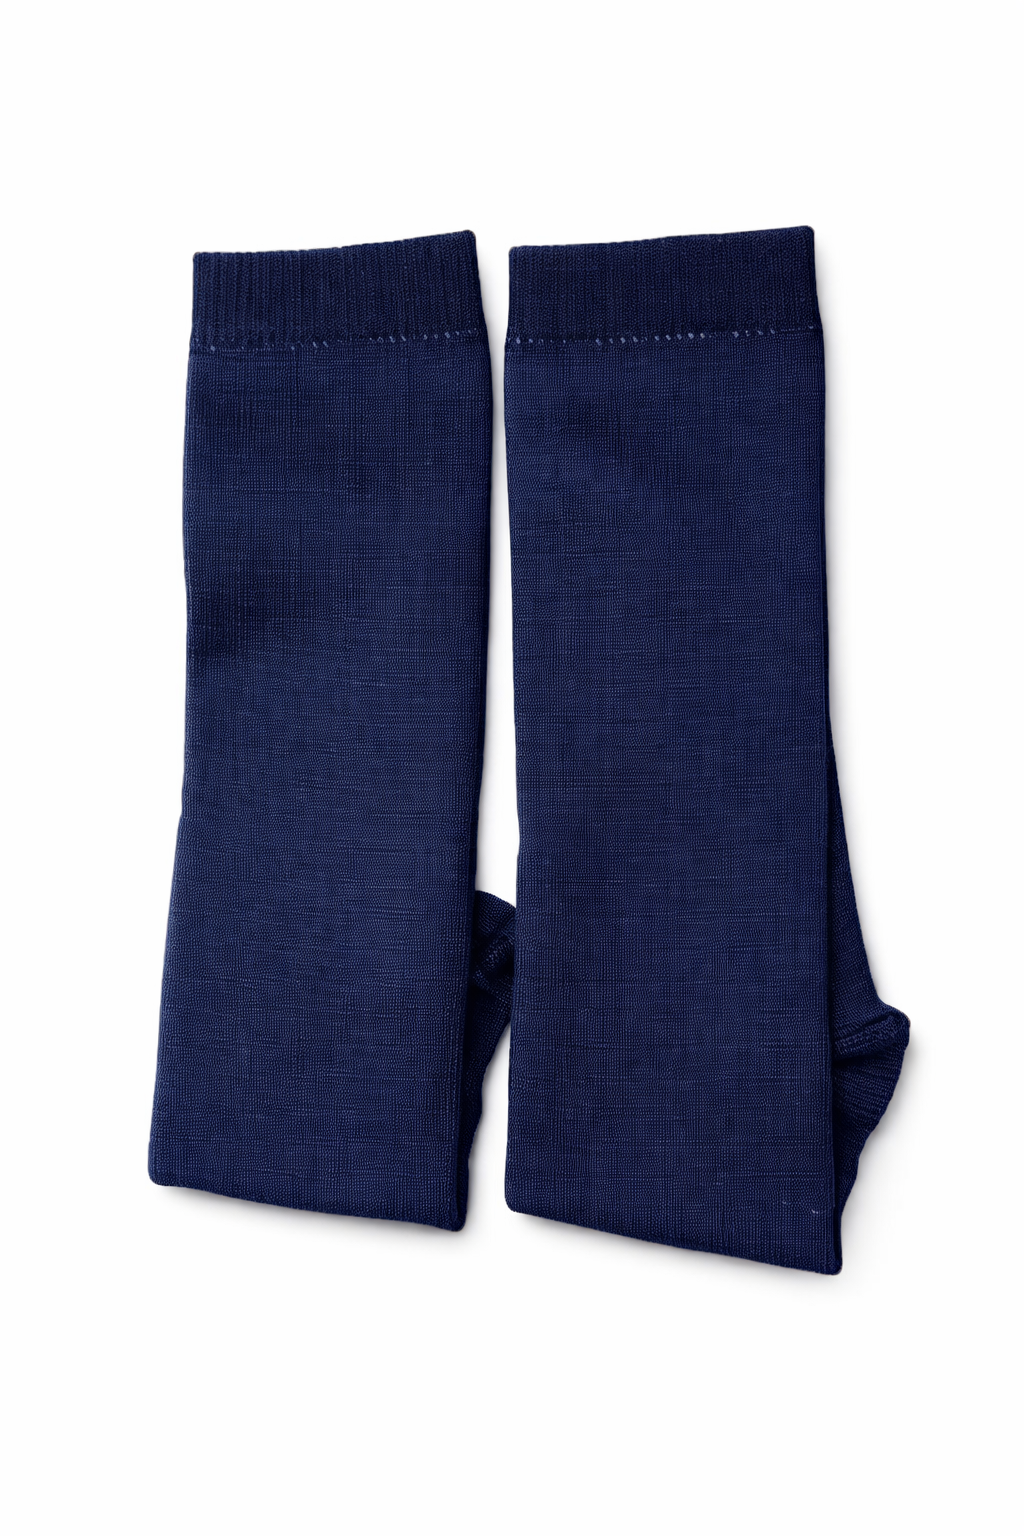
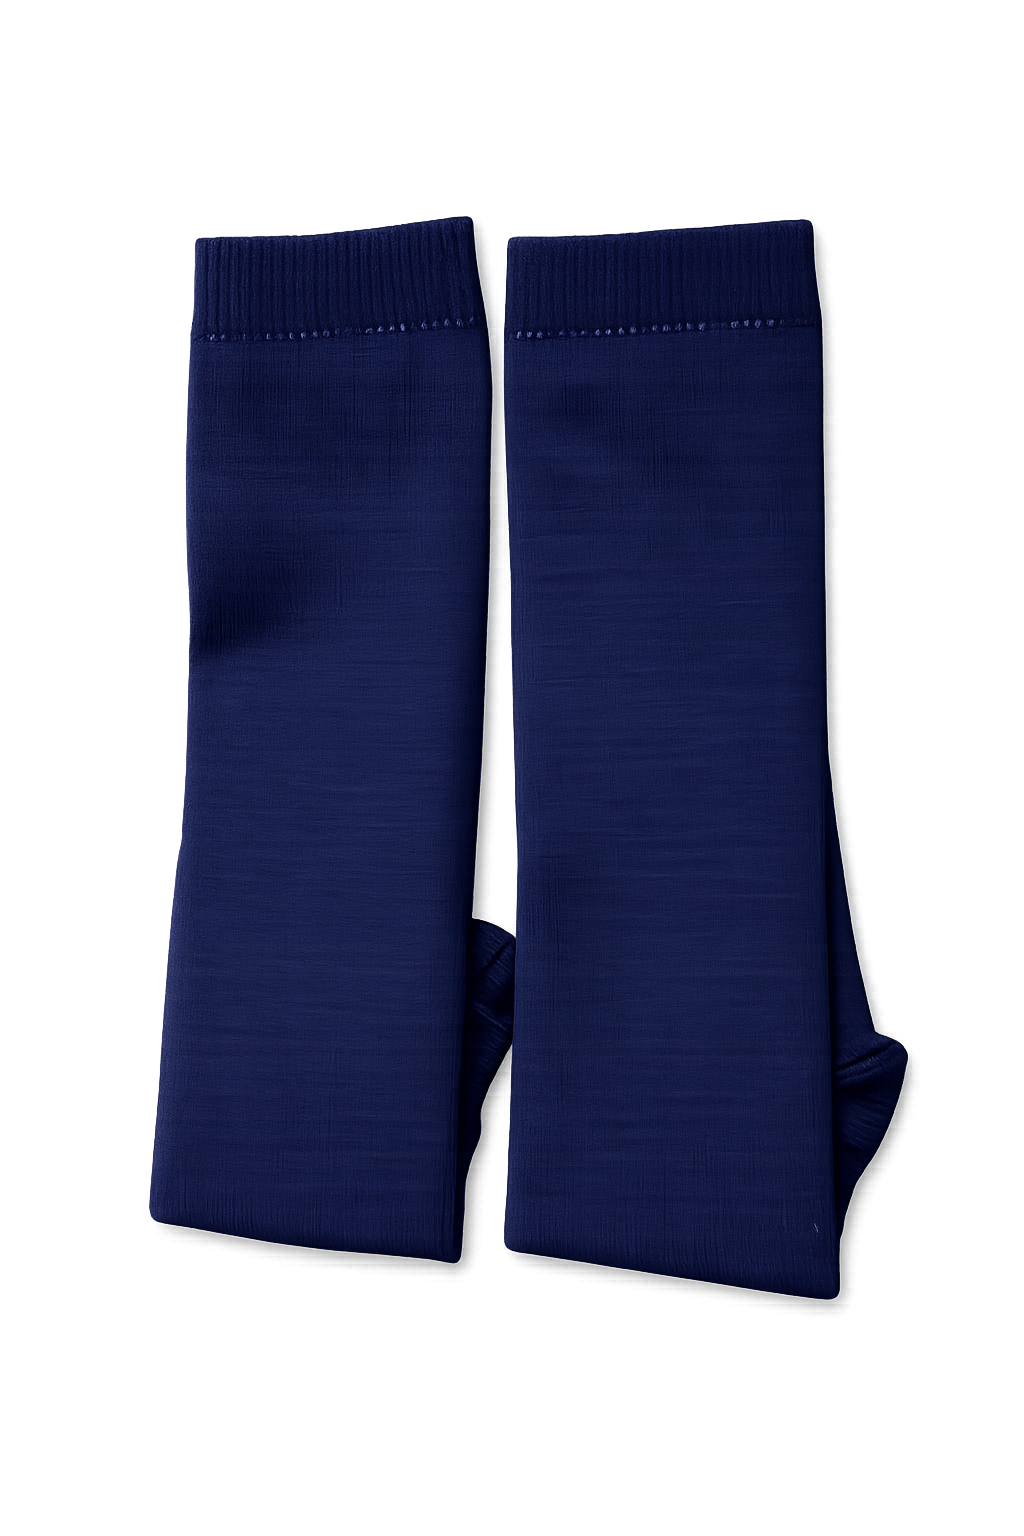
accesorios

Changed region(s): [[0.125, 0.125, 0.9062, 0.875]]

diff --git a/lib/products.ts b/lib/products.ts
@@ -333,8 +333,8 @@ export const products: Product[] = [
   },
       {
     id: "17",
-    slug: "mousepad",
-    name: "Mousepad",
+    slug: "mousepad tricampeon redondo",
+    name: "Mousepad tricampeon redondo",
     category: "Accesorios",
     categorySlug: "accesorios",
     price: 14999,
@@ -343,6 +343,134 @@ export const products: Product[] = [
     ],
     variants: [
       { color: "Azul", colorHex: "#1a365d", sizes: ["Único"], sku: "MD-AZ", stockMock: 40 },
+    ],
+    tags: ["accesorios"],
+    description: "Mochila oficial con compartimento para laptop. Múltiples bolsillos.",
+  },
+        {
+    id: "18",
+    slug: "medias azules",
+    name: "Medias Azules",
+    category: "Accesorios",
+    categorySlug: "accesorios",
+    price: 9999,
+    images: [
+      "/MediasAzules.png",
+    ],
+    variants: [
+      { color: "Azul", colorHex: "#1a365d", sizes: ["Único"], sku: "MD-AZ", stockMock: 40 },
+    ],
+    tags: ["accesorios"],
+    description: "Mochila oficial con compartimento para laptop. Múltiples bolsillos.",
+  },
+          {
+    id: "19",
+    slug: "medias negras",
+    name: "Medias Negras",
+    category: "Accesorios",
+    categorySlug: "accesorios",
+    price: 9999,
+    images: [
+      "/MediasNegras.png",
+    ],
+    variants: [
+      { color: "Negro", colorHex: "#000000", sizes: ["Único"], sku: "MD-NK", stockMock: 40 },
+    ],
+    tags: ["accesorios"],
+    description: "Mochila oficial con compartimento para laptop. Múltiples bolsillos.",
+  },
+            {
+    id: "20",
+    slug: "Llavero estuche",
+    name: "Llavero estuche",
+    category: "Accesorios",
+    categorySlug: "accesorios",
+    price: 9999,
+    images: [
+      "/LlaveroEstuche.png",
+    ],
+    variants: [
+      { color: "Negro", colorHex: "#000000", sizes: ["Único"], sku: "MD-NK", stockMock: 40 },
+    ],
+    tags: ["accesorios"],
+    description: "Mochila oficial con compartimento para laptop. Múltiples bolsillos.",
+  },
+              {
+    id: "21",
+    slug: "mousepad tricampeon ovalado",
+    name: "Mousepad Tricampeon Ovalado",
+    category: "Accesorios",
+    categorySlug: "accesorios",
+    price: 14999,
+    images: [
+      "/MousepadTricampeonOvalado.png",
+    ],
+    variants: [
+      { color: "Negro", colorHex: "#000000", sizes: ["Único"], sku: "MD-NK", stockMock: 40 },
+    ],
+    tags: ["accesorios"],
+    description: "Mochila oficial con compartimento para laptop. Múltiples bolsillos.",
+  },
+                    {
+    id: "22",
+    slug: "Mousepad 98 años",
+    name: "Mousepad 98 Años",
+    category: "Accesorios",
+    categorySlug: "accesorios",
+    price: 14999,
+    images: [
+      "/Mousepad98Anios.png",
+    ],
+    variants: [
+      { color: "Negro", colorHex: "#000000", sizes: ["Único"], sku: "MD-NK", stockMock: 40 },
+    ],
+    tags: ["accesorios"],
+    description: "Mochila oficial con compartimento para laptop. Múltiples bolsillos.",
+  },
+                {
+    id: "23",
+    slug: "libro el gigante dormido",
+    name: "Libro El Gigante Dormido",
+    category: "Accesorios",
+    categorySlug: "accesorios",
+    price: 24999,
+    images: [
+      "/Libro.png",
+    ],
+    variants: [
+      { color: "Negro", colorHex: "#000000", sizes: ["Único"], sku: "MD-NK", stockMock: 40 },
+    ],
+    tags: ["accesorios"],
+    description: "Mochila oficial con compartimento para laptop. Múltiples bolsillos.",
+  },
+                    {
+    id: "24",
+    slug: "yerbera",
+    name: "Yerbera",
+    category: "Accesorios",
+    categorySlug: "accesorios",
+    price: 14999,
+    images: [
+      "/Yerbera.png",
+    ],
+    variants: [
+      { color: "Negro", colorHex: "#000000", sizes: ["Único"], sku: "MD-NK", stockMock: 40 },
+    ],
+    tags: ["accesorios"],
+    description: "Mochila oficial con compartimento para laptop. Múltiples bolsillos.",
+  },
+                      {
+    id: "25",
+    slug: "bermuda negra",
+    name: "Bermuda Negra",
+    category: "Accesorios",
+    categorySlug: "accesorios",
+    price: 34999,
+    images: [
+      "/BermudaNegra.png",
+    ],
+    variants: [
+      { color: "Negro", colorHex: "#000000", sizes: ["Único"], sku: "MD-NK", stockMock: 40 },
     ],
     tags: ["accesorios"],
     description: "Mochila oficial con compartimento para laptop. Múltiples bolsillos.",
